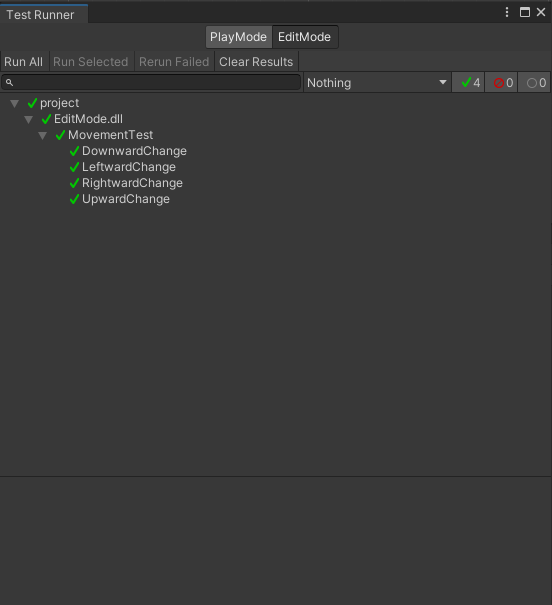
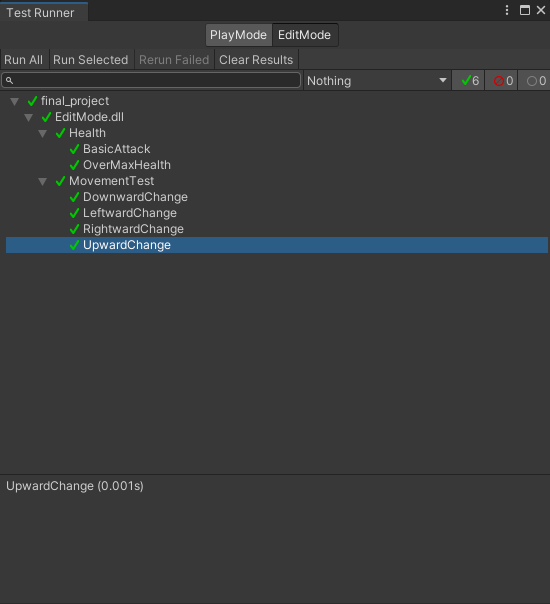
Fixed Unit Testing
-Fixed minor compiler errors in tests Carter made
-Made calculated values rounded values to account for floating point operations
-Reran tests using command line arguments to update test results in "unit-testing" folder

diff --git a/unity-folder/project/Assets/Tests/EditMode/HealthTest.cs b/unity-folder/project/Assets/Tests/EditMode/HealthTest.cs
@@ -12,9 +12,11 @@ public class Health
     public void BasicAttack() {
         GameObject temp = new GameObject("temp");
         temp.AddComponent<PlayerStats>();
+        temp.AddComponent<Rigidbody2D>();
         float attack_dmg = -10;
 
         PlayerStats ps = temp.GetComponent<PlayerStats>();
+        ps.Instantiate(); // respawning the object
 
         ps.UpdateHealth(attack_dmg);
         float final_health = ps.GetCurrentHealth();
@@ -22,9 +24,13 @@ public class Health
         Assert.AreEqual(final_health, expected_health);
 
         ps.UpdateHealth(attack_dmg);
-        float final_health = ps.GetCurrentHealth();
-        float expected_health = 80;
-        Assert.AreEqual(final_health, expected_health);
+        final_health = ps.GetCurrentHealth();
+        expected_health = 80;
+
+        // rounding floating point values to fixed decimal place:
+        decimal final_health_dec = Math.Round((decimal)final_health, 2);
+
+        Assert.AreEqual(final_health_dec, expected_health);
 
         // destroy dummy object:
         GameObject.DestroyImmediate(temp);
@@ -34,8 +40,10 @@ public class Health
     public void OverMaxHealth() {
         GameObject temp = new GameObject("temp");
         temp.AddComponent<PlayerStats>();
+        temp.AddComponent<Rigidbody2D>();
 
         PlayerStats ps = temp.GetComponent<PlayerStats>();
+        ps.Instantiate(); // respawning the object
 
         ps.UpdateHealth(15);
         float final_health = ps.GetCurrentHealth();
@@ -45,7 +53,11 @@ public class Health
         ps.UpdateHealth(15);
         final_health = ps.GetCurrentHealth();
         expected_health = 100;
-        Assert.AreEqual(final_health, expected_health);
+
+        // rounding floating point values to fixed decimal place:
+        decimal final_health_dec = Math.Round((decimal)final_health, 2);
+
+        Assert.AreEqual(final_health_dec, expected_health);
 
         // destroy dummy object:
         GameObject.DestroyImmediate(temp);

diff --git a/unity-folder/project/Assets/Tests/EditMode/MovementTest.cs b/unity-folder/project/Assets/Tests/EditMode/MovementTest.cs
@@ -13,6 +13,7 @@ public class MovementTest
     // dummy object instantiation:
     GameObject temp = new GameObject("temp");
     temp.AddComponent<PlayerMovement>();
+    temp.AddComponent<PlayerStats>();
     temp.AddComponent<Rigidbody2D>();
     PlayerMovement pm = temp.GetComponent<PlayerMovement>();
     pm.player = temp.GetComponent<Rigidbody2D>();
@@ -46,6 +47,7 @@ public class MovementTest
     // dummy object instantiation:
     GameObject temp = new GameObject("temp");
     temp.AddComponent<PlayerMovement>();
+    temp.AddComponent<PlayerStats>();
     temp.AddComponent<Rigidbody2D>();
     PlayerMovement pm = temp.GetComponent<PlayerMovement>();
     pm.player = temp.GetComponent<Rigidbody2D>();
@@ -79,6 +81,7 @@ public class MovementTest
     // dummy object instantiation:
     GameObject temp = new GameObject("temp");
     temp.AddComponent<PlayerMovement>();
+    temp.AddComponent<PlayerStats>();
     temp.AddComponent<Rigidbody2D>();
     PlayerMovement pm = temp.GetComponent<PlayerMovement>();
     pm.player = temp.GetComponent<Rigidbody2D>();
@@ -112,6 +115,7 @@ public class MovementTest
     // dummy object instantiation:
     GameObject temp = new GameObject("temp");
     temp.AddComponent<PlayerMovement>();
+    temp.AddComponent<PlayerStats>();
     temp.AddComponent<Rigidbody2D>();
     PlayerMovement pm = temp.GetComponent<PlayerMovement>();
     pm.player = temp.GetComponent<Rigidbody2D>();

diff --git a/unity-folder/project/Assets/Scripts/PlayerStats.cs b/unity-folder/project/Assets/Scripts/PlayerStats.cs
@@ -29,6 +29,10 @@ public class PlayerStats : MonoBehaviour
         }
     }
 
+    public void Instantiate() {
+        Start();
+    }
+
     private void Respawn() {
         SetSpeed(0.0f);
         Debug.Log("YOU DIED");
